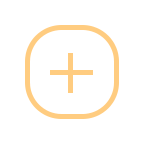
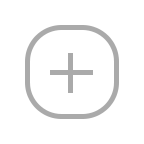
增加搜索功能，修改部分样式
增加搜索功能，修改部分样式

Changed region(s): [[0.1667, 0.1667, 0.8333, 0.8333], [0.3333, 0.3611, 0.6667, 0.6667]]

diff --git a/pages/delivery/good/search/index.js b/pages/delivery/good/search/index.js
@@ -1,0 +1,98 @@
+// pages/delivery/good/search/index.js
+
+const web = require("../../../../common/web.js");
+
+Page({
+  /**
+   * 页面的初始数据
+   */
+  data: {
+    "state": "none"
+  },
+
+  /**
+   * 生命周期函数--监听页面加载
+   */
+  onLoad: function(options) {
+
+  },
+
+  /**
+   * 生命周期函数--监听页面初次渲染完成
+   */
+  onReady: function() {
+
+  },
+
+  /**
+   * 生命周期函数--监听页面显示
+   */
+  onShow: function() {
+
+  },
+
+  /**
+   * 生命周期函数--监听页面隐藏
+   */
+  onHide: function() {
+
+  },
+
+  /**
+   * 生命周期函数--监听页面卸载
+   */
+  onUnload: function() {
+
+  },
+
+  /**
+   * 页面相关事件处理函数--监听用户下拉动作
+   */
+  onPullDownRefresh: function() {
+
+  },
+
+  /**
+   * 页面上拉触底事件的处理函数
+   */
+  onReachBottom: function() {
+
+  },
+
+  /**
+   * 用户点击右上角分享
+   */
+  onShareAppMessage: function() {
+
+  },
+
+  search: function(res) {
+    console.log(res.detail.value);
+    let that = this;
+    this.setData({
+      "state": "load"
+    });
+    web.request("C1012", {
+      "word": res.detail.value
+    }, {
+      success: function(d) {
+        that.setData({
+          "dataList": d.dataList,
+          "state": "list"
+        });
+      },
+      fail: function(code, msg) {
+        that.setData({
+          "state": "none"
+        });
+      }
+    });
+  },
+
+  itemClick: function(res) {
+    let id = res.currentTarget.dataset.id;
+    wx.navigateTo({
+      url: '../detail/index?id=' + id,
+    })
+  }
+})

diff --git a/pages/about/index.js b/pages/about/index.js
@@ -5,7 +5,10 @@ const app = getApp()
 Page({
 
   onLoad: function() {
-    
+    wx.setBackgroundColor({
+      backgroundColor: "#ff9800",
+      backgroundColorBottom: "#ffffff"
+    });
   },
   compute: function() {
 
@@ -14,10 +17,7 @@ Page({
    * 用户点击右上角分享
    */
   onShareAppMessage: function() {
-    return {
-      title: "年龄岁数计算器",
-      imageUrl: "/image/icon.png"
-    }
+
   },
   toKnxy: function() {
     wx.navigateTo({
@@ -25,6 +25,6 @@ Page({
     })
   },
   login: function() {
-     
+
   }
 })

diff --git a/pages/order/index.js b/pages/order/index.js
@@ -15,7 +15,7 @@ Page({
   /**
    * 生命周期函数--监听页面加载
    */
-  onLoad: function (options) {
+  onLoad: function(options) {
     this.setData({
       "state": 'load',
     });
@@ -27,7 +27,7 @@ Page({
       success: function(data) {
         console.log(data);
         if (!data.orders || data.orders.length < 1) {
-          this.fail("-1","没有订单");
+          this.fail("-1", "没有订单");
           return;
         }
         that.setData({

diff --git a/pages/delivery/index.js b/pages/delivery/index.js
@@ -355,5 +355,10 @@ Page({
     wx.navigateTo({
       url: 'good/detail/index?id=' + res.currentTarget.dataset.id,
     })
+  },
+  search: function() {
+    wx.navigateTo({
+      url: 'good/search/index',
+    })
   }
 })
